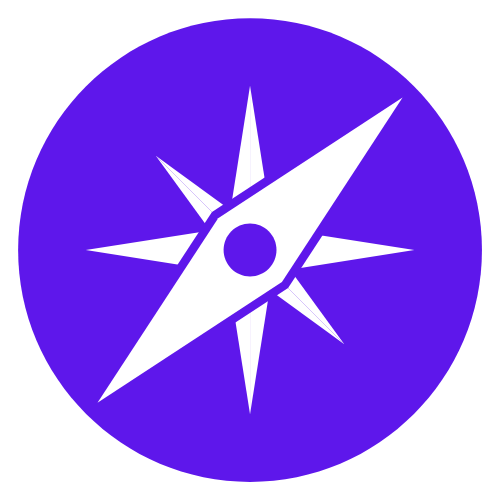
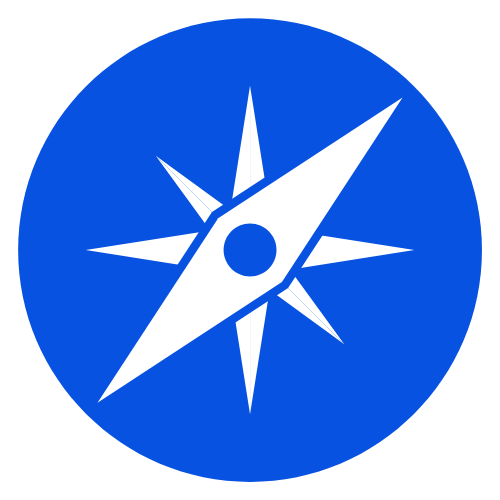
fix primary color

diff --git a/src/components/ui/balloon/index.tsx b/src/components/ui/balloon/index.tsx
@@ -13,7 +13,7 @@ export type BalloonProps = {
 const Balloon = ({ type, text, icon, delay }: BalloonProps) => {
 	if (type === "horizontal") {
 		return (
-			<div className="bg-purple-100 shadow-xl rounded-full relative  flex items-center justify-center p-4 px-8">
+			<div className="bg-blue-200 shadow-xl rounded-full relative  flex items-center justify-center p-4 px-8">
 				<motion.div
 					animate={{ x: [-20, -10, -20] }}
 					transition={{
@@ -34,7 +34,7 @@ const Balloon = ({ type, text, icon, delay }: BalloonProps) => {
 	return (
 		<motion.div
 			whileHover={{ scale: 1.2 }}
-			className=" bg-purple-200 shadow-2xl h-48 w-40 rounded-xl relative flex flex-col items-center justify-between min-h-8 p-6"
+			className=" bg-blue-200 shadow-2xl h-48 w-40 rounded-xl relative flex flex-col items-center justify-between min-h-8 p-6"
 		>
 			<Text classes="font-semibold tracking-wide mb-0" text={text} />
 			<motion.div

diff --git a/src/components/ui/notification/index.tsx b/src/components/ui/notification/index.tsx
@@ -34,7 +34,7 @@ const Notification = ({ children, onClick }: NotificationProps) => {
 				variants={mobileMessageVariants}
 				initial="hidden"
 				animate={messageAnimationControls}
-				className=" bg-purple-200 absolute z-50 left-10 top-10 right-10 rounded-3xl shadow-2xl px-6 text-left py-4"
+				className=" bg-blue-200 absolute z-50 left-10 top-10 right-10 rounded-3xl shadow-2xl px-6 text-left py-4"
 				onClick={onClick}
 			>
 				<div className="relative">
@@ -66,7 +66,7 @@ const Notification = ({ children, onClick }: NotificationProps) => {
 						flex  flex-col items-center
             top-0 right-2  h-4 w-4 -translate-y-1/2
             translate-x-1/2 transform rounded-full
-            bg-purple-700 ring-2 ring-white `}
+            bg-blue-700 ring-2 ring-white `}
 					>
 						1
 					</span>

diff --git a/src/components/steps/content/progress/index.tsx b/src/components/steps/content/progress/index.tsx
@@ -19,7 +19,7 @@ const Progress = () => {
 
 			<motion.div variants={textAnimation}>
 				<Text
-					classes="text-xl md:text-4xl font-semibold uppercase text-indigo-700"
+					classes="text-xl md:text-4xl font-semibold uppercase text-blue-700"
 					text="tanta pratica"
 				/>
 			</motion.div>
@@ -80,7 +80,7 @@ const Progress = () => {
 
 			<motion.div variants={textAnimation}>
 				<Text
-					classes="text-xl md:text-4xl text-indigo-700 font-semibold"
+					classes="text-xl md:text-4xl text-blue-700 font-semibold"
 					text="Più di un 1/3 del percorso è svolto in azienda"
 				/>
 			</motion.div>

diff --git a/src/components/ui/course/index.tsx b/src/components/ui/course/index.tsx
@@ -19,7 +19,7 @@ const Course = ({ icon, href, delay, title, classes }: CourseProps) => {
 				className="flex flex-col items-center justify-center cursor-pointer"
 			>
 				<div
-					className={` bg-purple-100 shadow-xl h-32 w-40 rounded-lg relative flex flex-col items-center justify-between min-h-8  ${classes}`}
+					className={` bg-blue-100 shadow-xl h-32 w-40 rounded-lg relative flex flex-col items-center justify-between min-h-8  ${classes}`}
 				>
 					<motion.div
 						animate={{ y: [20, 10, 20] }}

diff --git a/src/components/steps/content/kpi/index.tsx b/src/components/steps/content/kpi/index.tsx
@@ -119,7 +119,13 @@ const Kpi = () => {
 			<motion.div variants={textAnimation}>
 				<Text
 					classes="font-semibold text-2xl hidden md:block"
-					text="dei nostri studenti trova lavoro entro 1 anno dal diploma! mb-0"
+					text="dei nostri studenti trova lavoro"
+				/>
+			</motion.div>
+			<motion.div variants={textAnimation}>
+				<Text
+					classes="font-semibold text-2xl hidden md:block"
+					text="entro 1 anno dal diploma!"
 				/>
 			</motion.div>
 

diff --git a/src/components/steps/content/welcome/index.tsx b/src/components/steps/content/welcome/index.tsx
@@ -59,7 +59,7 @@ const Welcome = () => {
 
 			<motion.div variants={textAnimation}>
 				<Text
-					classes="text-indigo-500 text-xl md:text-4xl font-semibold mb-4"
+					classes="text-primary text-xl md:text-4xl font-semibold mb-4"
 					text="Specializzazione Tecnica Post Diploma!"
 				/>
 			</motion.div>

diff --git a/src/components/steps/navigation/circle/index.tsx b/src/components/steps/navigation/circle/index.tsx
@@ -15,7 +15,7 @@ const Circle = ({ index, current, onClick }: CircleProps) => {
 	const isComplete = index < current;
 	const color = () => {
 		if (index < current) {
-			return "bg-violet-500";
+			return "bg-blue-300";
 		} else if (index === current) {
 			return "bg-primary";
 		} else {

diff --git a/src/components/steps/content/school/index.tsx b/src/components/steps/content/school/index.tsx
@@ -62,7 +62,7 @@ const School = () => {
 
 			<motion.div
 				variants={textAnimation}
-				className="bg-purple-50 rounded-lg shadow-3xl pt-8 px-8 pb-16"
+				className="bg-blue-50 rounded-lg shadow-3xl pt-8 px-8 pb-16"
 			>
 				<Text
 					classes="text-primary text-xl font-bold"

diff --git a/src/components/steps/content/courses/index.tsx b/src/components/steps/content/courses/index.tsx
@@ -97,7 +97,7 @@ const Courses = () => {
 
 			<motion.div variants={textAnimation}>
 				<Text
-					classes="text-indigo-500 font-black text-lg md:text-xl uppercase"
+					classes="text-blue-500 font-black text-lg md:text-xl uppercase"
 					text="novità"
 				/>
 			</motion.div>

diff --git a/tailwind.config.js b/tailwind.config.js
@@ -7,7 +7,7 @@ module.exports = {
 				"3xl": "0 35px 60px -15px rgba(0, 0, 0, 0.3)",
 			},
 			colors: {
-				primary: "#6319E9",
+				primary: "#0852e1",
 			},
 		},
 	},
